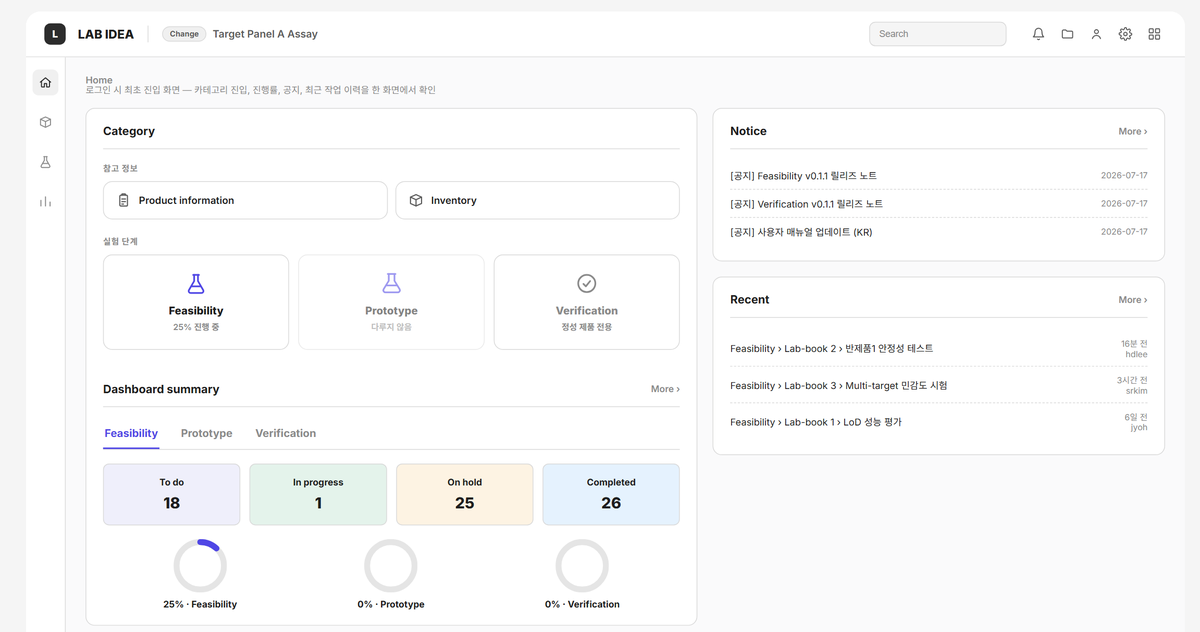
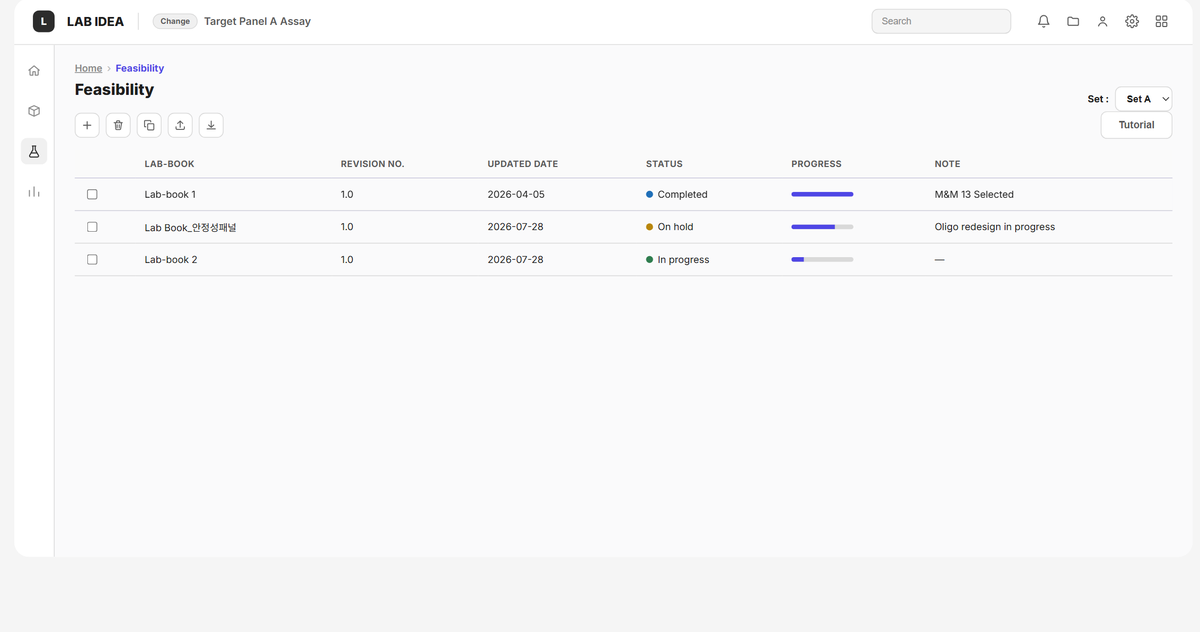
v0.4
임베디드 목업 안에서도 커스텀 커서 유지 — initCustomCursor 가 window.__portfolioCursor ({moveTo, setHover, setVisible}) 를 노출하고, hydratePrototypeEmbeds 가 iframe 의 mousemove/mouseover 를 부모 커서로 전달 + iframe 에 *{cursor:none} 주입. 목업 위에서도 도트·링이 따라오고 클릭 가능한 요소 위에서 링이 커짐 (확인).
- 썸네일 클릭 → 라이트박스 없이 바로 상세 — bindImagePlaceholders 가 a.work-item/a.more-work-item 안의 썸네일은 라이트박스 바인딩을 건너뜀. 클릭 시 확대 없이 곧장 #/work/<slug> 로 이동 (확인).
- 02 썸네일 교체 — 홈 대시보드 → Feasibility 랩노트 목록 화면(브레드크럼 "Home › Feasibility", "Feasibility" 타이틀, Lab-book 테이블). assets/projects/feasibility-automation-sw/thumbnail.png 갱신.

diff --git a/index.html b/index.html
@@ -1240,6 +1240,10 @@
      see the lightbox binding in the script below. Placeholders stay inert. */
   .img-placeholder[data-real-src] { cursor: zoom-in; border-style: solid; }
 
+  /* …except work-list thumbnails, which just open the case study (no lightbox). */
+  .work-thumb .img-placeholder[data-real-src],
+  .more-work-thumb .img-placeholder[data-real-src] { cursor: inherit; }
+
   .img-placeholder .ph-icon {
     width: 34px;
     height: 34px;
@@ -2401,6 +2405,13 @@
     border-top:1px solid var(--line);
     background:var(--surface);
   }
+  /* -- 튜토리얼: 사용자 시나리오상 다음에 눌러야 할 요소 하이라이트(맥동) -- */
+  @keyframes pulseHighlight {
+    0%   { box-shadow: 0 0 0 0 rgba(31,111,184,.55); transform: scale(1); }
+    50%  { box-shadow: 0 0 0 8px rgba(31,111,184,0);  transform: scale(1.02); }
+    100% { box-shadow: 0 0 0 0 rgba(31,111,184,0);    transform: scale(1); }
+  }
+  .flow-highlight{ animation: pulseHighlight 2s infinite ease-in-out; border-color: var(--blue) !important; position: relative; z-index: 5; }
 </style>
 </head>
 <body>
@@ -2495,7 +2506,7 @@
           </div>
           <div class="wizard-actions" style="justify-content:space-between;align-items:center;">
             <span style="font-size:12px;color:var(--ink-40);font-weight:600;">Prototype 단계 · Lab-book 3건 · 진행 중 1건</span>
-            <button class="btn primary" onclick="show('labbooklist')">Prototype Lab-book 열기</button>
+            <button class="btn primary flow-highlight" onclick="show('labbooklist')">Prototype Lab-book 열기</button>
           </div>
         </div>
       </div>
@@ -2523,7 +2534,7 @@
           <table>
             <thead><tr><th></th><th>Lab-book</th><th>Revision No.</th><th>Updated date</th><th>Status</th><th>Progress</th><th>Note</th></tr></thead>
             <tbody>
-              <tr class="clickable" onclick="show('testlist')"><td><input type="checkbox"></td><td>Lab-book 2</td><td>1.0</td><td>2026-07-28</td><td><span class="dot green"></span>In progress</td><td><div class="progressbar"><div style="width:20%"></div></div></td><td>—</td></tr>
+              <tr class="clickable flow-highlight" onclick="show('testlist')"><td><input type="checkbox"></td><td>Lab-book 2</td><td>1.0</td><td>2026-07-28</td><td><span class="dot green"></span>In progress</td><td><div class="progressbar"><div style="width:20%"></div></div></td><td>—</td></tr>
               <tr class="clickable" onclick="show('testlist')"><td><input type="checkbox"></td><td>Lab Book_안정성패널</td><td>1.0</td><td>2026-07-28</td><td><span class="dot amber"></span>On hold</td><td><div class="progressbar"><div style="width:70%"></div></div></td><td>Oligo redesign in progress</td></tr>
               <tr class="clickable" onclick="show('testlist')"><td><input type="checkbox"></td><td>Lab-book 1</td><td>1.0</td><td>2026-04-05</td><td><span class="dot blue"></span>Completed</td><td><div class="progressbar"><div style="width:100%"></div></div></td><td>M&amp;M 13 Selected</td></tr>
             </tbody>
@@ -2554,7 +2565,7 @@
           <table>
             <thead><tr><th></th><th>No.</th><th>Test</th><th>Status</th><th>Progress</th><th>Note</th></tr></thead>
             <tbody>
-              <tr class="clickable" onclick="show('plan')"><td><input type="checkbox"></td><td>1</td><td>3-1 반제품 소량생산 안정성 시험 (Batch test)</td><td><span class="tag progress">In progress</span></td><td><div class="progressbar"><div style="width:40%"></div></div></td><td>—</td></tr>
+              <tr class="clickable flow-highlight" onclick="show('plan')"><td><input type="checkbox"></td><td>1</td><td>3-1 반제품 소량생산 안정성 시험 (Batch test)</td><td><span class="tag progress">In progress</span></td><td><div class="progressbar"><div style="width:40%"></div></div></td><td>—</td></tr>
               <tr class="clickable" onclick="show('plan')"><td><input type="checkbox"></td><td>2</td><td>Cross-reactivity 검증</td><td><span class="tag todo">To do</span></td><td><div class="progressbar"><div style="width:0%"></div></div></td><td>—</td></tr>
               <tr class="clickable" onclick="show('plan')"><td><input type="checkbox"></td><td>-</td><td>2차 Multi-target 선정_민감도 (Customized test)</td><td><span class="tag todo">To do</span></td><td><div class="progressbar"><div style="width:0%"></div></div></td><td>—</td></tr>
             </tbody>
@@ -2629,7 +2640,7 @@
 
           <div class="wizard-actions">
             <button class="btn ghost" onclick="show('testlist')">Prev</button>
-            <button class="btn primary" onclick="show('wellinfo')">Next</button>
+            <button class="btn primary flow-highlight" onclick="show('wellinfo')">Next</button>
           </div>
         </div>
       </div>
@@ -2683,7 +2694,7 @@
 
           <div class="wizard-actions">
             <button class="btn ghost" onclick="show('plan')">Prev</button>
-            <button class="btn primary" onclick="show('method')">Next</button>
+            <button class="btn primary flow-highlight" onclick="show('method')">Next</button>
           </div>
         </div>
       </div>
@@ -2725,7 +2736,7 @@
 
           <div class="wizard-actions">
             <button class="btn ghost" onclick="show('wellinfo')">Prev</button>
-            <button class="btn primary" onclick="show('dataupload')">Next</button>
+            <button class="btn primary flow-highlight" onclick="show('dataupload')">Next</button>
           </div>
         </div>
       </div>
@@ -2763,7 +2774,7 @@
 
           <div class="wizard-actions">
             <button class="btn ghost" onclick="show('method')">Prev</button>
-            <button class="btn primary" onclick="show('result')">Next</button>
+            <button class="btn primary flow-highlight" onclick="show('result')">Next</button>
           </div>
         </div>
       </div>
@@ -2827,7 +2838,7 @@
           <div class="wizard-actions">
             <button class="btn ghost" onclick="show('dataupload')">Prev</button>
             <button class="btn ghost" onclick="toast('저장되었습니다!')">Save</button>
-            <button class="btn primary" onclick="show('criteria')">Next</button>
+            <button class="btn primary flow-highlight" onclick="show('criteria')">Next</button>
           </div>
         </div>
       </div>
@@ -2901,7 +2912,7 @@
           <div class="wizard-actions">
             <button class="btn ghost" onclick="show('result')">Prev</button>
             <button class="btn ghost" onclick="toast('저장되었습니다!')">Save</button>
-            <button class="btn dark" onclick="show('testlist');toast('완료되었습니다!')">Complete</button>
+            <button class="btn dark flow-highlight" onclick="show('testlist');toast('완료되었습니다!')">Complete</button>
           </div>
         </div>
       </div>
@@ -3050,7 +3061,6 @@
 </script>
 </body>
 </html>
-
 </template>
 <!-- ▲▲▲ [프로젝트 04] 끝 ▲▲▲ -->
 
@@ -3127,6 +3137,10 @@ body{margin:0;background:var(--bg);color:var(--ink);font-family:'Inter','Noto Sa
 .topbar .ver{font-size:11px;color:var(--ink-40);font-weight:600;}
 [data-icon] svg{width:100%;height:100%;display:block;}
 .ico{display:inline-flex;align-items:center;justify-content:center;width:16px;height:16px;vertical-align:-3px;}
+/* Standalone icon buttons (outside .topbar): glyph stays a fixed readable
+   size instead of stretching edge-to-edge in the button box. */
+.ico-btn{display:inline-flex;align-items:center;justify-content:center;flex-shrink:0;cursor:pointer;}
+.ico-btn svg{width:16px;height:16px;}
 .topbar .ico-btn svg{width:16px;height:16px;}
 
 /* Content Layout for Sticky Navigation & Footer */
@@ -4234,9 +4248,9 @@ document.addEventListener('DOMContentLoaded', function(){
   .stage{max-width:1440px;margin:14px auto 60px;padding:0 40px;position:relative;}
   .screen{display:none;}
   .screen.active{display:block;}
-  .device{background:var(--surface);border-radius:var(--radius-lg);overflow:hidden;box-shadow:var(--shadow);border:1px solid var(--line);}
+  .device{background:var(--surface);border-radius:var(--radius-lg);overflow:hidden;box-shadow:var(--shadow);border:1px solid var(--line);display:flex;flex-direction:column;height:720px;}
 
-  .gnb{background:#fff;color:var(--ink);display:flex;align-items:center;padding:0 24px;height:60px;gap:18px;border-bottom:1px solid var(--line);}
+  .gnb{background:#fff;color:var(--ink);display:flex;align-items:center;padding:0 24px;height:60px;gap:18px;border-bottom:1px solid var(--line);flex-shrink:0;}
   .gnb .brand{display:flex;align-items:center;gap:10px;font-weight:800;font-size:16px;}
   .gnb .brand .dot{width:28px;height:28px;border-radius:var(--radius-sm);background:var(--brand);color:#fff;display:flex;align-items:center;justify-content:center;font-size:13px;font-weight:800;}
   .gnb .divider{width:1px;height:22px;background:var(--line);}
@@ -4250,13 +4264,13 @@ document.addEventListener('DOMContentLoaded', function(){
   .gnb .icons .ico-btn:hover{background:var(--bg);color:var(--ink);}
   .ico svg{display:block;width:18px;height:18px;}
 
-  .body-wrap{display:flex;background:#FAFAFB;min-height:660px;}
+  .body-wrap{display:flex;background:#FAFAFB;flex:1;min-height:0;overflow:hidden;}
   .lnb{width:52px;background:#fff;border-right:1px solid var(--line);display:flex;flex-direction:column;align-items:center;padding-top:16px;gap:18px;}
   .lnb .lnb-icon{width:34px;height:34px;border-radius:var(--radius-sm);display:flex;align-items:center;justify-content:center;color:var(--ink-40);cursor:pointer;}
   .lnb .lnb-icon svg{width:18px;height:18px;}
   .lnb .lnb-icon.active{background:var(--brand-soft);color:var(--brand);}
 
-  .content{flex:1;padding:22px 26px 36px;}
+  .content{flex:1;min-height:0;overflow-y:auto;padding:22px 26px 36px;}
   .crumb{font-size:12.5px;color:var(--ink-40);margin-bottom:6px;font-weight:600;display:flex;gap:6px;align-items:center;flex-wrap:wrap;}
   .crumb .cur{color:var(--accent);font-weight:700;}
   .crumb .sep{opacity:.5;}
@@ -4449,6 +4463,20 @@ document.addEventListener('DOMContentLoaded', function(){
   .stage-card.disabled-nav{opacity:.55;cursor:not-allowed;}
   .stage-card.disabled-nav:hover{border-color:var(--line);background:#fff;}
 
+  /* -- Wizard 화면: 하단 Prev/Next Footer 고정, 그 사이 본문만 스크롤 -- */
+  .content.wizard{display:flex;flex-direction:column;padding-bottom:0;overflow:hidden;}
+  .content.wizard > .crumb,
+  .content.wizard > .wizard-steps{flex:0 0 auto;}
+  .content.wizard > .wizard-body{flex:1 1 auto;min-height:0;overflow-y:auto;overflow-x:hidden;padding:2px 14px 12px 0;}
+  .content.wizard > .wizard-actions{flex:0 0 auto;margin-top:0;padding:16px 0 6px;border-top:1px solid var(--line);background:var(--surface);}
+
+  /* -- 튜토리얼: 다음에 눌러야 할 요소 하이라이트(맥동) -- */
+  @keyframes pulseHighlight {
+    0%   { box-shadow: 0 0 0 0 rgba(79,70,229,.55); transform: scale(1); }
+    50%  { box-shadow: 0 0 0 8px rgba(79,70,229,0);  transform: scale(1.02); }
+    100% { box-shadow: 0 0 0 0 rgba(79,70,229,0);    transform: scale(1); }
+  }
+  .flow-highlight{ animation: pulseHighlight 2s infinite ease-in-out; border-color: var(--accent) !important; position: relative; z-index: 5; }
 </style>
 </head>
 <body>
@@ -4498,7 +4526,7 @@ document.addEventListener('DOMContentLoaded', function(){
               <div class="cat-section">
                 <div class="cat-subhead">실험 단계</div>
                 <div class="cat-stages">
-                  <div class="stage-card" onclick="show('labbooklist')" title="클릭하여 Feasibility 진입"><span class="ico" data-icon="flask"></span><h4>Feasibility</h4><p>25% 진행 중</p></div>
+                  <div class="stage-card flow-highlight" onclick="show('labbooklist')" title="클릭하여 Feasibility 진입"><span class="ico" data-icon="flask"></span><h4>Feasibility</h4><p>25% 진행 중</p></div>
                   <div class="stage-card disabled-nav" title="이번 포트폴리오 케이스에서는 다루지 않음"><span class="ico" data-icon="flask2"></span><h4>Prototype</h4><p>다루지 않음</p></div>
                   <div class="stage-card disabled" title="정성(Qualitative) 제품에서만 사용"><span class="ico" data-icon="check"></span><h4>Verification</h4><p>정성 제품 전용</p></div>
                 </div>
@@ -4567,7 +4595,7 @@ document.addEventListener('DOMContentLoaded', function(){
           <table>
             <thead><tr><th></th><th>Lab-book</th><th>Revision No.</th><th>Updated date</th><th>Status</th><th>Progress</th><th>Note</th></tr></thead>
             <tbody id="labbookTbody">
-              <tr class="clickable" onclick="show('testlist')"><td><input type="checkbox"></td><td>Lab-book 1</td><td>1.0</td><td>2026-04-05</td><td><span class="dot blue"></span>Completed</td><td><div class="progressbar"><div style="width:100%"></div></div></td><td>M&amp;M 13 Selected</td></tr>
+              <tr class="clickable flow-highlight" onclick="show('testlist')"><td><input type="checkbox"></td><td>Lab-book 1</td><td>1.0</td><td>2026-04-05</td><td><span class="dot blue"></span>Completed</td><td><div class="progressbar"><div style="width:100%"></div></div></td><td>M&amp;M 13 Selected</td></tr>
               <tr class="clickable" onclick="show('testlist')"><td><input type="checkbox"></td><td>Lab Book_안정성패널</td><td>1.0</td><td>2026-07-28</td><td><span class="dot amber"></span>On hold</td><td><div class="progressbar"><div style="width:70%"></div></div></td><td>Oligo redesign in progress</td></tr>
               <tr class="clickable" onclick="show('testlist')"><td><input type="checkbox"></td><td>Lab-book 2</td><td>1.0</td><td>2026-07-28</td><td><span class="dot green"></span>In progress</td><td><div class="progressbar"><div style="width:20%"></div></div></td><td>—</td></tr>
             </tbody>
@@ -4603,7 +4631,7 @@ document.addEventListener('DOMContentLoaded', function(){
           <table>
             <thead><tr><th></th><th>No.</th><th>Test</th><th>Status</th><th style="min-width:230px;">Progress</th><th>Note</th></tr></thead>
             <tbody id="testTbody">
-              <tr class="clickable" onclick="show('plan')">
+              <tr class="clickable flow-highlight" onclick="show('plan')">
                 <td><input type="checkbox"></td><td>1</td><td>3-1 반제품 소량생산 안정성 시험 (Batch test)</td><td><span class="tag progress">In progress</span></td>
                 <td>
                   <div class="stage-progress">
@@ -4706,7 +4734,7 @@ document.addEventListener('DOMContentLoaded', function(){
           <div class="wizard-actions">
             <button class="btn ghost" onclick="show('testlist')">Prev</button>
             <button class="btn ghost" onclick="toast('저장되었습니다!')">Save</button>
-            <button class="btn primary" onclick="show('wellinfo')">Next</button>
+            <button class="btn primary flow-highlight" onclick="show('wellinfo')">Next</button>
           </div>
         </div>
       </div>
@@ -4763,7 +4791,7 @@ document.addEventListener('DOMContentLoaded', function(){
 
           <div class="wizard-actions">
             <button class="btn ghost" onclick="show('plan')">Prev</button>
-            <button class="btn primary" onclick="show('method')">Next</button>
+            <button class="btn primary flow-highlight" onclick="show('method')">Next</button>
           </div>
         </div>
       </div>
@@ -4796,13 +4824,13 @@ document.addEventListener('DOMContentLoaded', function(){
           <div class="helpnote">Well information을 기반으로 진행할 하위 프로세스를 선택. 각 프로세스는 완료 후 이 화면으로 돌아와 다음 프로세스로 진행함.</div>
 
           <div class="method-row">
-            <div class="stage-card" style="width:290px;padding:26px;" onclick="show('tprep')">
+            <div class="stage-card flow-highlight" id="mCardTprep" style="width:290px;padding:26px;" onclick="show('tprep')">
               <span class="ico" data-icon="flask" style="width:32px;height:32px;color:var(--accent);margin:0 auto 12px;display:block;"></span>
               <h4 style="font-size:16px;">Template preparation</h4>
               <p style="font-size:12.5px;">Template 희석/제조 — 수기 진행</p>
               <span class="done-badge" id="tprepBadge" style="display:none;">✓ 완료</span>
             </div>
-            <div class="stage-card" style="width:290px;padding:26px;" onclick="show('pcrsetup')">
+            <div class="stage-card" id="mCardPcr" style="width:290px;padding:26px;" onclick="show('pcrsetup')">
               <span class="ico" data-icon="robot" style="width:32px;height:32px;color:var(--accent);margin:0 auto 12px;display:block;"></span>
               <h4 style="font-size:16px;">PCR Setup</h4>
               <p style="font-size:12.5px;">Mastermix/Template 분주 — 수기 또는 자동화 장비 선택</p>
@@ -4812,7 +4840,7 @@ document.addEventListener('DOMContentLoaded', function(){
 
           <div class="wizard-actions">
             <button class="btn ghost" onclick="show('wellinfo')">Prev</button>
-            <button class="btn primary" onclick="show('dataupload')">Next</button>
+            <button class="btn primary" id="mMethodNext" onclick="show('dataupload')">Next</button>
           </div>
         </div>
       </div>
@@ -4860,7 +4888,7 @@ document.addEventListener('DOMContentLoaded', function(){
 
           <div class="wizard-actions">
             <button class="btn ghost" onclick="show('method')">Prev</button>
-            <button class="btn primary" onclick="markDone('tprep');show('method')">Save &amp; 완료 처리</button>
+            <button class="btn primary flow-highlight" onclick="markDone('tprep');show('method')">Save &amp; 완료 처리</button>
           </div>
         </div>
       </div>
@@ -4898,7 +4926,7 @@ document.addEventListener('DOMContentLoaded', function(){
 
           <div class="wizard-actions">
             <button class="btn ghost" onclick="show('method')">Prev</button>
-            <button class="btn primary" onclick="markDone('pcrsetup');show('method')">Save &amp; 완료 처리</button>
+            <button class="btn primary flow-highlight" onclick="markDone('pcrsetup');show('method')">Save &amp; 완료 처리</button>
           </div>
         </div>
       </div>
@@ -4940,7 +4968,7 @@ document.addEventListener('DOMContentLoaded', function(){
 
           <div class="wizard-actions">
             <button class="btn ghost" onclick="show('method')">Prev</button>
-            <button class="btn primary" onclick="show('result')">Next</button>
+            <button class="btn primary flow-highlight" onclick="show('result')">Next</button>
           </div>
         </div>
       </div>
@@ -5005,7 +5033,7 @@ document.addEventListener('DOMContentLoaded', function(){
           <div class="wizard-actions">
             <button class="btn ghost" onclick="show('dataupload')">Prev</button>
             <button class="btn ghost" onclick="toast('저장되었습니다!')">Save</button>
-            <button class="btn primary" onclick="show('discussion')">Next</button>
+            <button class="btn primary flow-highlight" onclick="show('discussion')">Next</button>
           </div>
         </div>
       </div>
@@ -5075,7 +5103,7 @@ document.addEventListener('DOMContentLoaded', function(){
           <div class="wizard-actions">
             <button class="btn ghost" onclick="show('result')">Prev</button>
             <button class="btn ghost" onclick="toast('저장되었습니다!')">Save</button>
-            <button class="btn primary" onclick="show('testlist')">Complete</button>
+            <button class="btn primary flow-highlight" onclick="toast('완료되었습니다!'); show('testlist')">Complete</button>
           </div>
         </div>
       </div>
@@ -5194,6 +5222,14 @@ document.addEventListener('DOMContentLoaded', function(){
   function markDone(kind){
     const badge = document.getElementById(kind === 'tprep' ? 'tprepBadge' : 'pcrBadge');
     if(badge){ badge.style.display = 'inline-block'; }
+    // 튜토리얼 하이라이트: 완료한 카드 -> 다음 할 일로 이동
+    if(kind === 'tprep'){
+      var a = document.getElementById('mCardTprep'); if(a) a.classList.remove('flow-highlight');
+      var b = document.getElementById('mCardPcr');   if(b) b.classList.add('flow-highlight');
+    } else {
+      var b = document.getElementById('mCardPcr');   if(b) b.classList.remove('flow-highlight');
+      var n = document.getElementById('mMethodNext');if(n) n.classList.add('flow-highlight');
+    }
     toast('저장되었습니다!');
   }
   function importResults(){
@@ -5260,6 +5296,22 @@ document.addEventListener('DOMContentLoaded', function(){
   };
   document.querySelectorAll('[data-icon]').forEach(function(el){
     el.innerHTML = ICONS[el.dataset.icon] || '';
+  });
+
+  // wizard-actions(Footer)를 가진 화면: 상단 고정영역(crumb/wizard-steps) 아래부터
+  // Footer 전까지를 .wizard-body 로 감싸 스크롤 영역으로 만들고 .content 에 .wizard 부여.
+  document.querySelectorAll('.screen .content').forEach(function(c){
+    var actions = c.querySelector(':scope > .wizard-actions');
+    if(!actions) return;
+    c.classList.add('wizard');
+    var sc = c.closest('.screen'); if(sc) sc.classList.add('has-wizard');
+    var anchor = c.querySelector(':scope > .wizard-steps') || c.querySelector(':scope > .crumb');
+    var start = anchor ? anchor.nextElementSibling : c.firstElementChild;
+    var body = document.createElement('div');
+    body.className = 'wizard-body';
+    var n = start;
+    while(n && n !== actions){ var nx = n.nextElementSibling; body.appendChild(n); n = nx; }
+    c.insertBefore(body, actions);
   });
 
 </script>
@@ -5724,6 +5776,27 @@ document.addEventListener('DOMContentLoaded', function(){
           fit();
           if (window.ResizeObserver) new ResizeObserver(fit).observe(frame);
           win.addEventListener('resize', fit);
+
+          // Keep the site's custom cursor alive while the pointer is over the
+          // embedded mockup — the parent window's own mousemove never fires there.
+          const pc = window.__portfolioCursor;
+          if (pc) {
+            const hoverSel = 'a,button,input,select,textarea,label,[onclick],[role="button"],' +
+              '.clickable,tr.clickable,.stage-card,.method-card,.radio-card,.wstep,.utab,.st,.pill,' +
+              '.iconbtn,.ico-btn,.page-row,.cat-ref-item,.import-btn,.add-row-btn,.flow-highlight';
+            doc.addEventListener('mousemove', function (e) {
+              const r = frame.getBoundingClientRect();
+              pc.moveTo(r.left + e.clientX, r.top + e.clientY);
+              pc.setVisible(true);
+            });
+            doc.addEventListener('mouseover', function (e) {
+              pc.setHover(!!(e.target.closest && e.target.closest(hoverSel)));
+            });
+            doc.addEventListener('mouseout', function () { pc.setHover(false); });
+            const cstyle = doc.createElement('style');
+            cstyle.textContent = '*{cursor:none!important;}';
+            doc.head.appendChild(cstyle);
+          }
         } catch (e) { /* leave the raw mockup in the frame */ }
       });
     });
@@ -6096,6 +6169,9 @@ document.addEventListener('DOMContentLoaded', function(){
     root.querySelectorAll('.img-placeholder[data-real-src]').forEach(el => {
       if (el.dataset.lightboxBound) return;
       el.dataset.lightboxBound = '1';
+      // A thumbnail inside a case-study link just opens the case study — no
+      // lightbox zoom detour. Lightbox stays on for standalone detail images.
+      if (el.closest('a.work-item, a.more-work-item')) return;
       el.addEventListener('click', () => {
         openLightbox(`<img src="${el.dataset.realSrc}" alt="${el.dataset.lightboxLabel || ''}" style="max-width:100%;max-height:76vh;border-radius:8px;">`);
       });
@@ -6117,12 +6193,25 @@ document.addEventListener('DOMContentLoaded', function(){
     let ringX = mouseX, ringY = mouseY;
     let started = false;
 
-    window.addEventListener('mousemove', (e) => {
-      mouseX = e.clientX;
-      mouseY = e.clientY;
+    function moveTo(x, y) {
+      mouseX = x;
+      mouseY = y;
       dot.style.transform = `translate(${mouseX}px, ${mouseY}px) translate(-50%, -50%)`;
       if (!started) { ringX = mouseX; ringY = mouseY; started = true; }
-    });
+    }
+
+    window.addEventListener('mousemove', (e) => moveTo(e.clientX, e.clientY));
+
+    // Exposed so embedded prototype iframes can keep this cursor alive over them
+    // (see hydratePrototypeEmbeds — the parent's mousemove doesn't fire there).
+    window.__portfolioCursor = {
+      moveTo,
+      setHover(on) { ring.classList.toggle('is-hover', !!on); },
+      setVisible(on) {
+        dot.style.opacity = on ? '1' : '0';
+        ring.style.opacity = on ? '0.75' : '0';
+      }
+    };
 
     function raf() {
       ringX += (mouseX - ringX) * 0.18;
